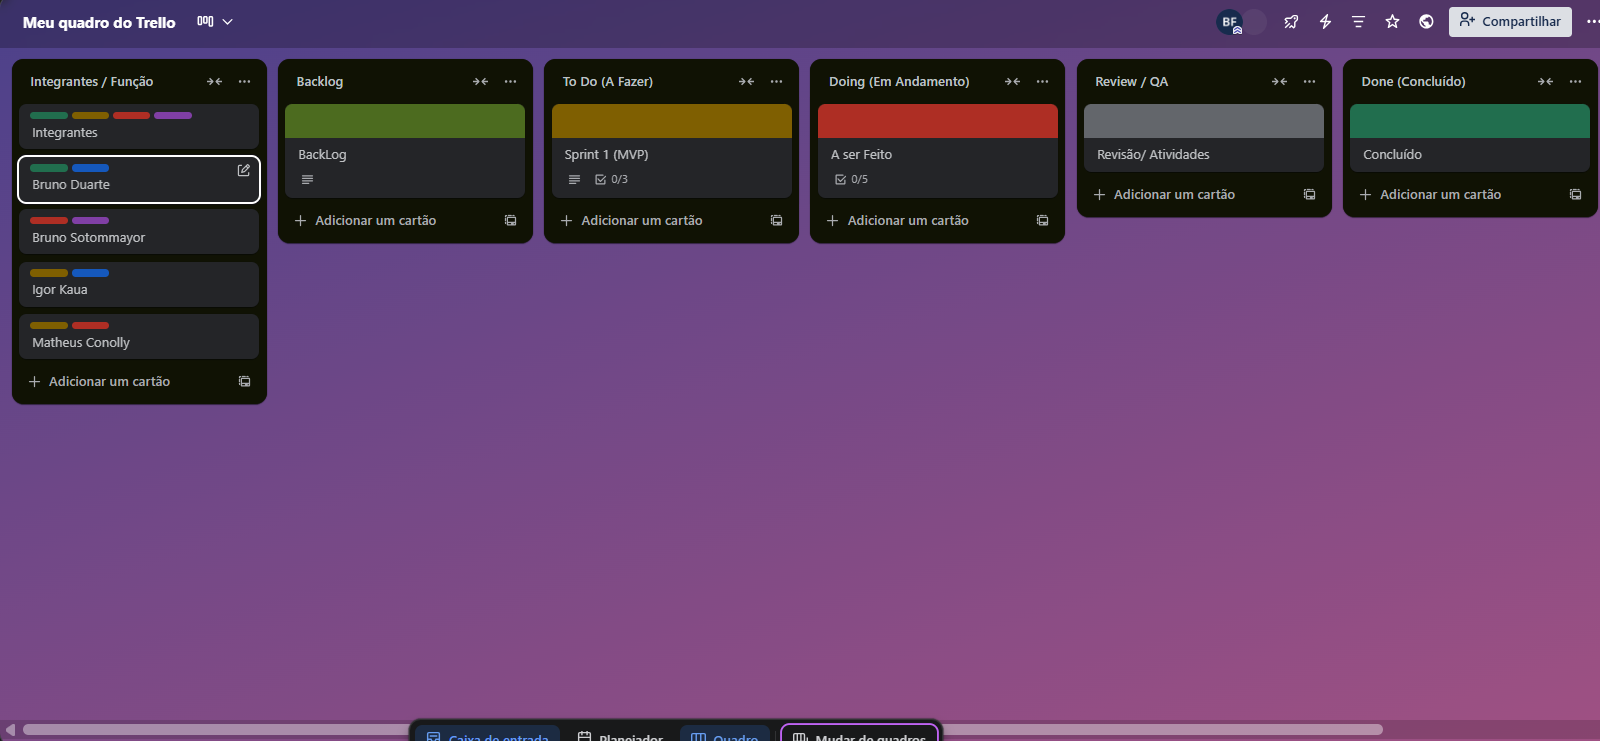
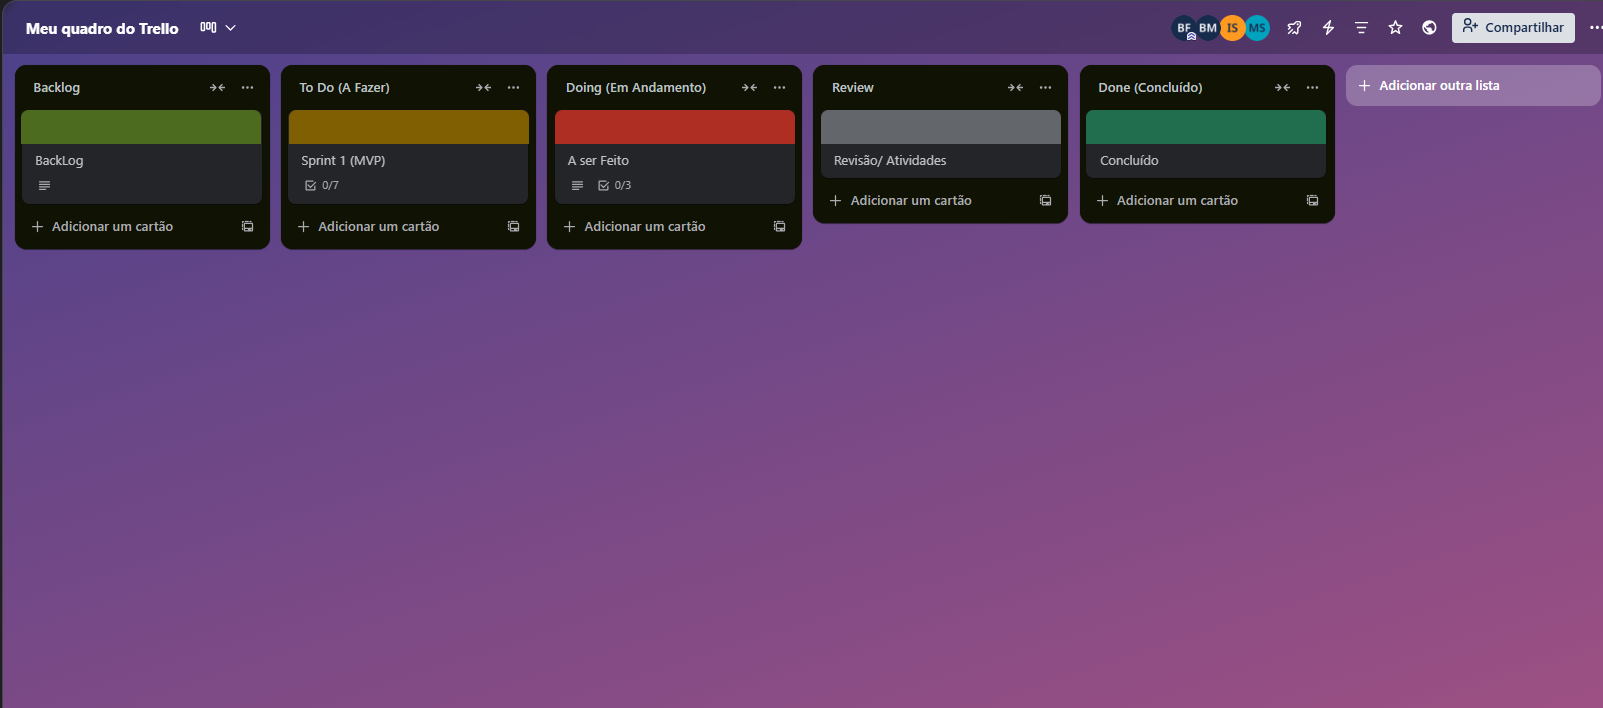
Atualização

Changed region(s): [[0.0, 0.0, 1.0, 0.5593], [0.0, 0.9633, 0.875, 1.0]]

diff --git a/README.md b/README.md
@@ -1,90 +1,16 @@
-1⃣ Histórias de Usuário -- 
-1. Ocorrências
 
-Card: Como usuário, quero visualizar as ocorrências da Guarda Municipal para acompanhar tipo e localização.
-Conversation: Listar todas as ocorrências com tipo, data, hora e geolocalização; permitir filtro por tipo/região.
-Confirmation: Lista completa carregada, filtros funcionam e cada ocorrência aparece no mapa.
-Prioridade: Alta
+http://dados.recife.pe.gov.br/dataset?groups=seguranca-publica
+-- Ocorrencias -- 
+-- Operações -- 
+-- Telecentros -- 
 
-2. Operações
+Integrantes: 
 
-Card: Como gestor, quero consultar operações da Guarda Municipal para entender agentes envolvidos e detalhes das ações.
-Conversation: Exibir operações com data, hora, agentes; exportação CSV/JSON; filtros por agente, data ou tipo.
-Confirmation: Lista carregada, exportação funciona e informações completas.
-Prioridade: Alta
-
-3. Telecentros
-
-Card: Como usuário, quero acessar informações sobre telecentros para conhecer equipamentos, atendimento e localização.
-Conversation: Lista de telecentros com geolocalização, equipamentos disponíveis, horários e gestor responsável.
-Confirmation: Informações e localização corretas, fácil de identificar gestor e equipamentos.
-Prioridade: Média
-
-4. Cadastro de Usuário
-
-Card: Como novo usuário, quero me cadastrar no sistema para acessar funcionalidades personalizadas.
-Conversation: Formulário de cadastro simples, validação de dados e confirmação por e-mail.
-Confirmation: Cadastro concluído, e-mail de confirmação recebido.
-Prioridade: Alta
-
-5. Login de Usuário
-
-Card: Como usuário, quero fazer login no sistema para acessar minhas informações.
-Conversation: Login com e-mail/senha ou integração social (opcional).
-Confirmation: Login funcional e sessão ativa corretamente.
-Prioridade: Alta
-
-6. Visualização de Agentes
-
-Card: Como gestor, quero ver a lista de agentes para gerenciar escalas e operações.
-Conversation: Mostrar lista com nome, função e disponibilidade; filtrar por operação ou local.
-Confirmation: Lista completa e filtros funcionando.
-Prioridade: Média
-
-7. Relatórios de Ocorrências
-
-Card: Como gestor, quero gerar relatórios de ocorrências para análise e tomada de decisão.
-Conversation: Permitir geração em PDF ou CSV, por período e tipo de ocorrência.
-Confirmation: Relatórios gerados corretamente e exportáveis.
-Prioridade: Média
-
-8. Notificações de Ocorrências
-
-Card: Como usuário, quero receber notificações de ocorrências próximas para me manter informado.
-Conversation: Alertas via app ou e-mail quando uma ocorrência acontece em região selecionada.
-Confirmation: Notificações chegam corretamente e alertam sobre a localização correta.
-Prioridade: Baixa
-
-9. Histórico de Operações
-
-Card: Como gestor, quero consultar o histórico de operações realizadas para análise de desempenho.
-Conversation: Mostrar operações passadas com data, agentes e resultado; filtrar por período.
-Confirmation: Histórico completo, filtros funcionando e dados corretos.
-Prioridade: Média
-
-10. Gerenciamento de Telecentros
-
-Card: Como gestor, quero atualizar informações dos telecentros para manter dados sempre corretos.
-Conversation: Permitir alterar horário, equipamentos e responsável; salvar alterações no sistema.
-Confirmation: Alterações refletidas no sistema corretamente.
-Prioridade: Média
-
-
-2⃣ Papéis de cada integrante
-Integrante	Papel	Responsabilidade
-Bruno Duarte	
-Matheus Conolly
-Bruno Sotommayor
-Igor Kaua 
-
-
-3⃣ Priorização das Entregas
-
-Alta: Cadastro, Login, Ocorrências, Operações
-
-Média: Telecentros, Visualização de Agentes, Relatórios, Histórico de Operações, Gerenciamento de Telecentros
-
-Baixa: Notificações
+Bruno Duarte - Relação entre Dados
+Bruno Martin - Monitoramento Dados  
+Matheus Conolly - Analise Exploratoria 
+Gabriel Leal - Validação Dados 
+Igor Kauã - Limpeza Dados     
 
 
 ![Print do Trello](imagens/tela-trello.png)
